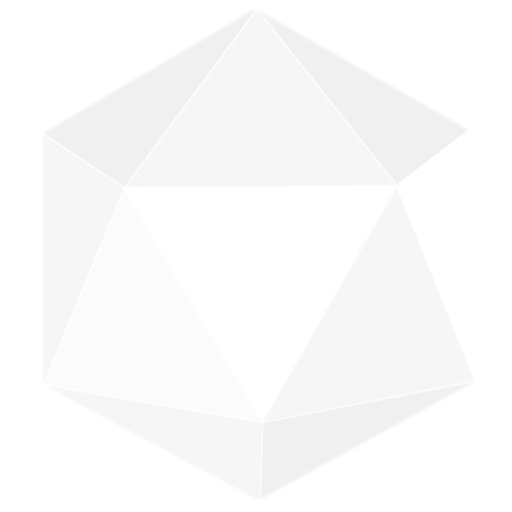
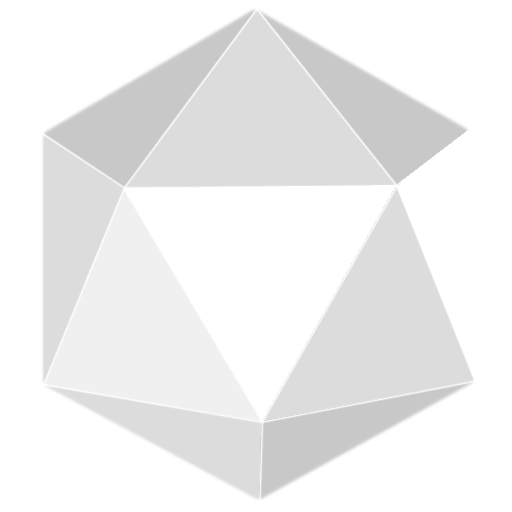
* folder for fonts * proper using of the new DangerZone ** changed danger_zone_inner.png gamma * now using the new wipeout effect ** adjusted its configuration

diff --git a/ParticleStormControl/ParticleStormControl/InGame/Level/Level.cs b/ParticleStormControl/ParticleStormControl/InGame/Level/Level.cs
@@ -22,6 +22,7 @@ namespace ParticleStormControl
         public List<SpawnPoint> SpawnPoints { get { return spawnPoints; } }
 
         private Texture2D pixelTexture;
+        private Texture2D mutateBig;
 
         private SpriteBatch spriteBatch;
         private ContentManager contentManager;
@@ -101,7 +102,7 @@ namespace ParticleStormControl
 
         private Texture2D wipeoutExplosionTexture;
         private Texture2D wipeoutDamageTexture;
-        private const float WIPEOUT_SPEED = 1.0f;
+        private const float WIPEOUT_SPEED = 0.5f;
         private const float WIPEOUT_SIZEFACTOR = 1.5f;
         private float wipeoutProgress = 0.0f;
         private bool wipeoutActive;
@@ -138,7 +139,7 @@ namespace ParticleStormControl
 
             // switch
             switchSound = content.Load<SoundEffect>("sound/switch");
-            fontCountdownLarge = content.Load<SpriteFont>("fontCountdown");
+            fontCountdownLarge = content.Load<SpriteFont>("fonts/fontCountdown");
 
             // background & vignetting
             backgroundQuadVertexBuffer = new VertexBuffer(device, ScreenTriangleRenderer.ScreenAlignedTriangleVertex.VertexDeclaration, 4, BufferUsage.WriteOnly);
@@ -148,13 +149,14 @@ namespace ParticleStormControl
 
             // bg particles
             backgroundParticles = new BackgroundParticles(device, content);
-            
+        
+            // effects
+            mutateBig = content.Load<Texture2D>("Mutate_big");
+            wipeoutExplosionTexture = content.Load<Texture2D>("Wipeout_big");
+            wipeoutDamageTexture = wipeoutExplosionTexture;
+    
             // setup size
             Resize(device);
-            
-            // wipeout
-            wipeoutExplosionTexture = content.Load<Texture2D>("capture_glow");
-            wipeoutDamageTexture = content.Load<Texture2D>("capture_glow");
         }
 
         public void NewEmptyLevel(GraphicsDevice device)
@@ -362,13 +364,13 @@ namespace ParticleStormControl
                 // random position within a certain range
                 Vector2 position = new Vector2((float)(Random.NextDouble()) * 0.8f + 0.1f, (float)(Random.NextDouble()) * 0.8f + 0.1f);
 
-                if (Random.NextDouble() < 0.5)
+                if (Random.NextDouble() < 0.2)
                     mapObjects.Add(new Item(position, Item.ItemType.DANGER_ZONE, contentManager));
-                else if (Random.NextDouble() < 0.3)
+                else if (Random.NextDouble() < 0.2)
                     mapObjects.Add(new Debuff(position, contentManager));
                 else if (Random.NextDouble() < 0.18)
                     mapObjects.Add(new Item(position, Item.ItemType.MUTATION, contentManager));
-                else if (Random.NextDouble() < 0.1)
+                else if (Random.NextDouble() < 0.2)
                     mapObjects.Add(new Item(position, Item.ItemType.WIPEOUT, contentManager));
 
                 // restart timer
@@ -529,8 +531,9 @@ namespace ParticleStormControl
 
             // wipeout
             if (wipeoutActive)
-                spriteBatch.Draw(wipeoutExplosionTexture, ComputePixelRect_Centered(Level.RELATIVE_MAX / 2, Level.RELATIVE_MAX.X * wipeoutProgress * WIPEOUT_SIZEFACTOR),
-                                    new Color(1.0f, 1.0f, 1.0f, 1.0f - wipeoutProgress));
+                spriteBatch.Draw(wipeoutExplosionTexture, ComputePixelRect(Level.RELATIVE_MAX / 2, Level.RELATIVE_MAX.X * wipeoutProgress * WIPEOUT_SIZEFACTOR),
+                                    null, new Color(1.0f, 1.0f, 1.0f, (float)(1.0 - Math.Sqrt(wipeoutProgress))), totalTimeSeconds, 
+                                    new Vector2(wipeoutExplosionTexture.Width, wipeoutExplosionTexture.Height) * 0.5f, SpriteEffects.None, 0.0f);
     
             spriteBatch.End();
 

diff --git a/ParticleStormControl/ParticleStormControl/InGame/Level/DangerZone.cs b/ParticleStormControl/ParticleStormControl/InGame/Level/DangerZone.cs
@@ -15,7 +15,7 @@ namespace ParticleStormControl
         /// </summary>
         public const float explosionMaxSize = 0.22f;
 
-        private const float explosionDamage = 8;
+        private const float explosionDamage = 2.0f;
         private const float explosionDuration = 7.0f;
         private float currentExplosionSize;
         private float currentRotation;
@@ -24,7 +24,6 @@ namespace ParticleStormControl
         private float alpha = 1.0f;
 
         private SoundEffect explosionSound;
-        private Texture2D dangerZoneTextureOuter;
         private Texture2D dangerZoneTextureInner;
 
         private readonly Vector2 textureCenterZone;
@@ -36,14 +35,13 @@ namespace ParticleStormControl
         {
             explosionSound = content.Load<SoundEffect>("sound/danger_zone");
             dangerZoneTextureInner = content.Load<Texture2D>("danger_zone_inner");
-            dangerZoneTextureOuter = content.Load<Texture2D>("danger_zone_outer");
 
             this.possessingPlayer = possessingPlayer;
 
             explosionTimer = new Stopwatch();
 
             Size = 0.05f;
-            textureCenterZone = new Vector2(dangerZoneTextureOuter.Width / 2, dangerZoneTextureOuter.Height / 2);
+            textureCenterZone = new Vector2(dangerZoneTextureInner.Width / 2, dangerZoneTextureInner.Height / 2);
 
             Activate();
         }
@@ -80,7 +78,6 @@ namespace ParticleStormControl
         {
             // explosion
             Rectangle rect = level.ComputePixelRect(Position, currentExplosionSize);
-            spriteBatch.Draw(dangerZoneTextureOuter, rect, null, Settings.Instance.GetPlayerColor(possessingPlayer) * alpha, 0.0f, textureCenterZone, SpriteEffects.None, 0);
             spriteBatch.Draw(dangerZoneTextureInner, rect, null, Settings.Instance.GetPlayerColor(possessingPlayer) * alpha, currentRotation, textureCenterZone, SpriteEffects.None, 0);
         }
     }

diff --git a/ParticleStormControl/ParticleStormControl/Menu/Menu.cs b/ParticleStormControl/ParticleStormControl/Menu/Menu.cs
@@ -68,10 +68,10 @@ namespace ParticleStormControl.Menu
 
         public void LoadContent(ContentManager content)
         {
-            font = content.Load<SpriteFont>("font");
-            fontSmall = content.Load<SpriteFont>("fontSmall");
-            fontBold = content.Load<SpriteFont>("fontBold");
-            fontCountdown = content.Load<SpriteFont>("fontCountdown");
+            font = content.Load<SpriteFont>("fonts/font");
+            fontSmall = content.Load<SpriteFont>("fonts/fontSmall");
+            fontBold = content.Load<SpriteFont>("fonts/fontBold");
+            fontCountdown = content.Load<SpriteFont>("fonts/fontCountdown");
             pixelTexture = content.Load<Texture2D>("pix");
             foreach (MenuPage page in pages)
             {
